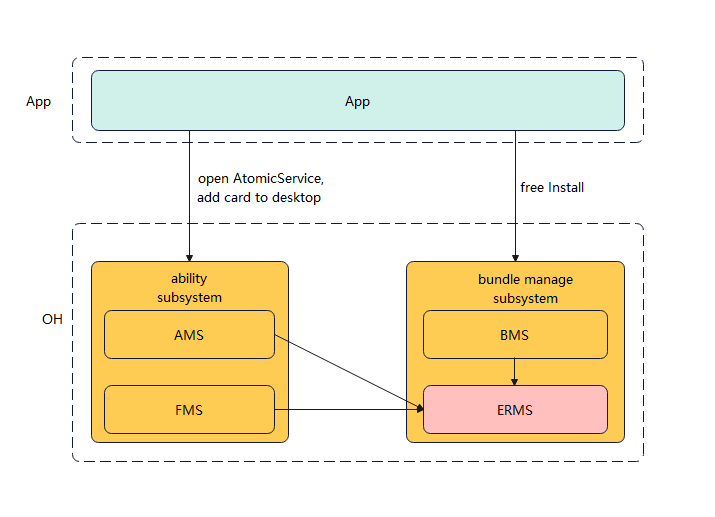
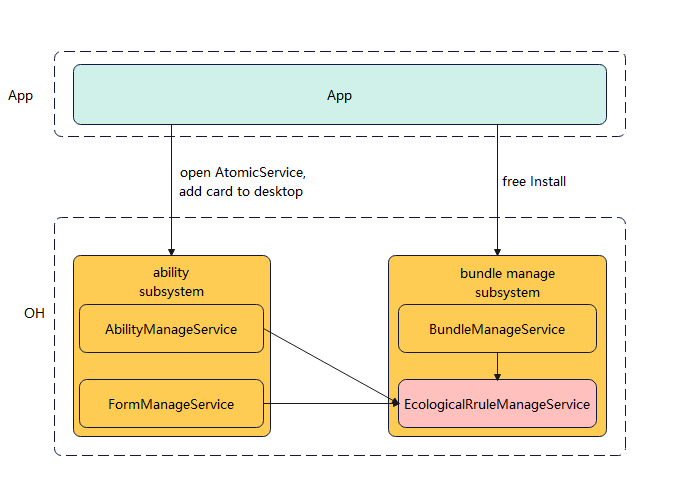
修改readme

diff --git a/README_zh.md b/README_zh.md
@@ -10,10 +10,10 @@
 以下是对于上图关键字段的描述信息：
 
 - `App`：App，在打开元服务时会受到生态规则服务的管控。
-- `AMS`：AbilityManagerService，用于协调各Ability运行关系、及对生命周期进行调度的系统服务。 
-- `FMS`：FormManagerService，卡片管理服务，管理卡片的生命周期，并维护卡片信息以及卡片事件的调度。
-- `BMS`：BundleManagerService，包管理服务，负责应用安装包的管理，提供安装包的信息查询、安装、更新、卸载和包信息存储等能力。
-- `ERMS`：EcologicalRuleManagerServie，生态规则管控服务，对元服务的拉起，加桌等行为进行管控。
+- `AbilityManagerService`：元能力管理服务，用于协调各Ability运行关系、及对生命周期进行调度的系统服务。 
+- `FormManagerService`：卡片管理服务，管理卡片的生命周期，并维护卡片信息以及卡片事件的调度。
+- `BundleManagerService`：包管理服务，负责应用安装包的管理，提供安装包的信息查询、安装、更新、卸载和包信息存储等能力。
+- `EcologicalRuleManagerServie`：生态规则管控服务，对元服务的拉起，加桌等行为进行管控。
 
 
 ### 目录结构
